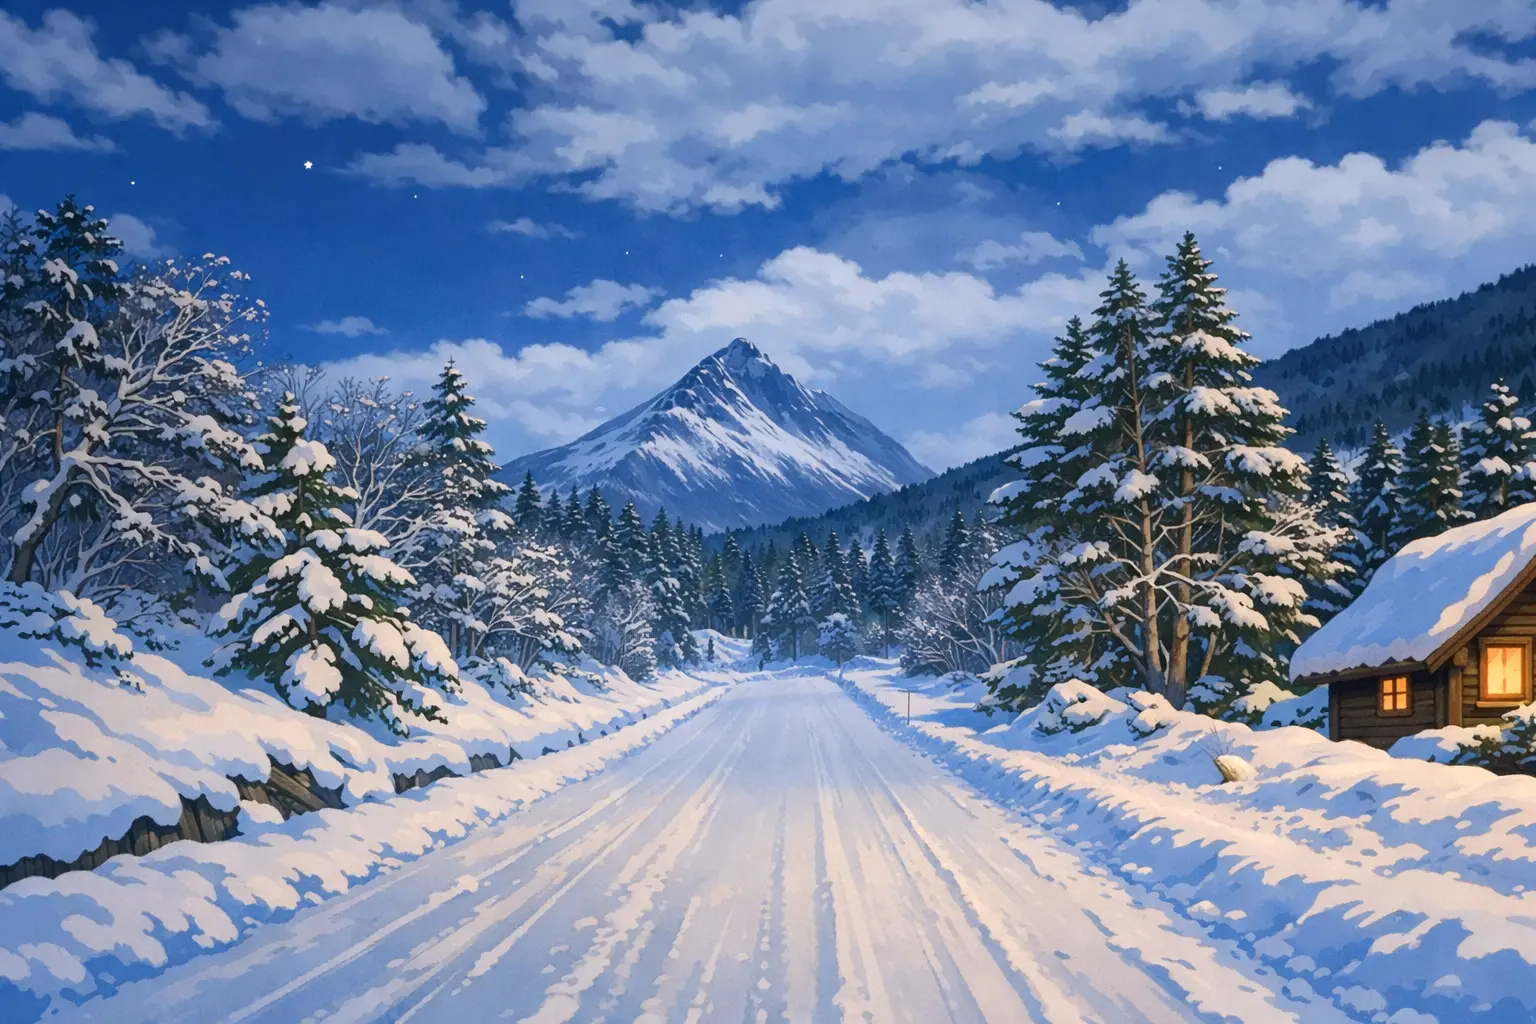
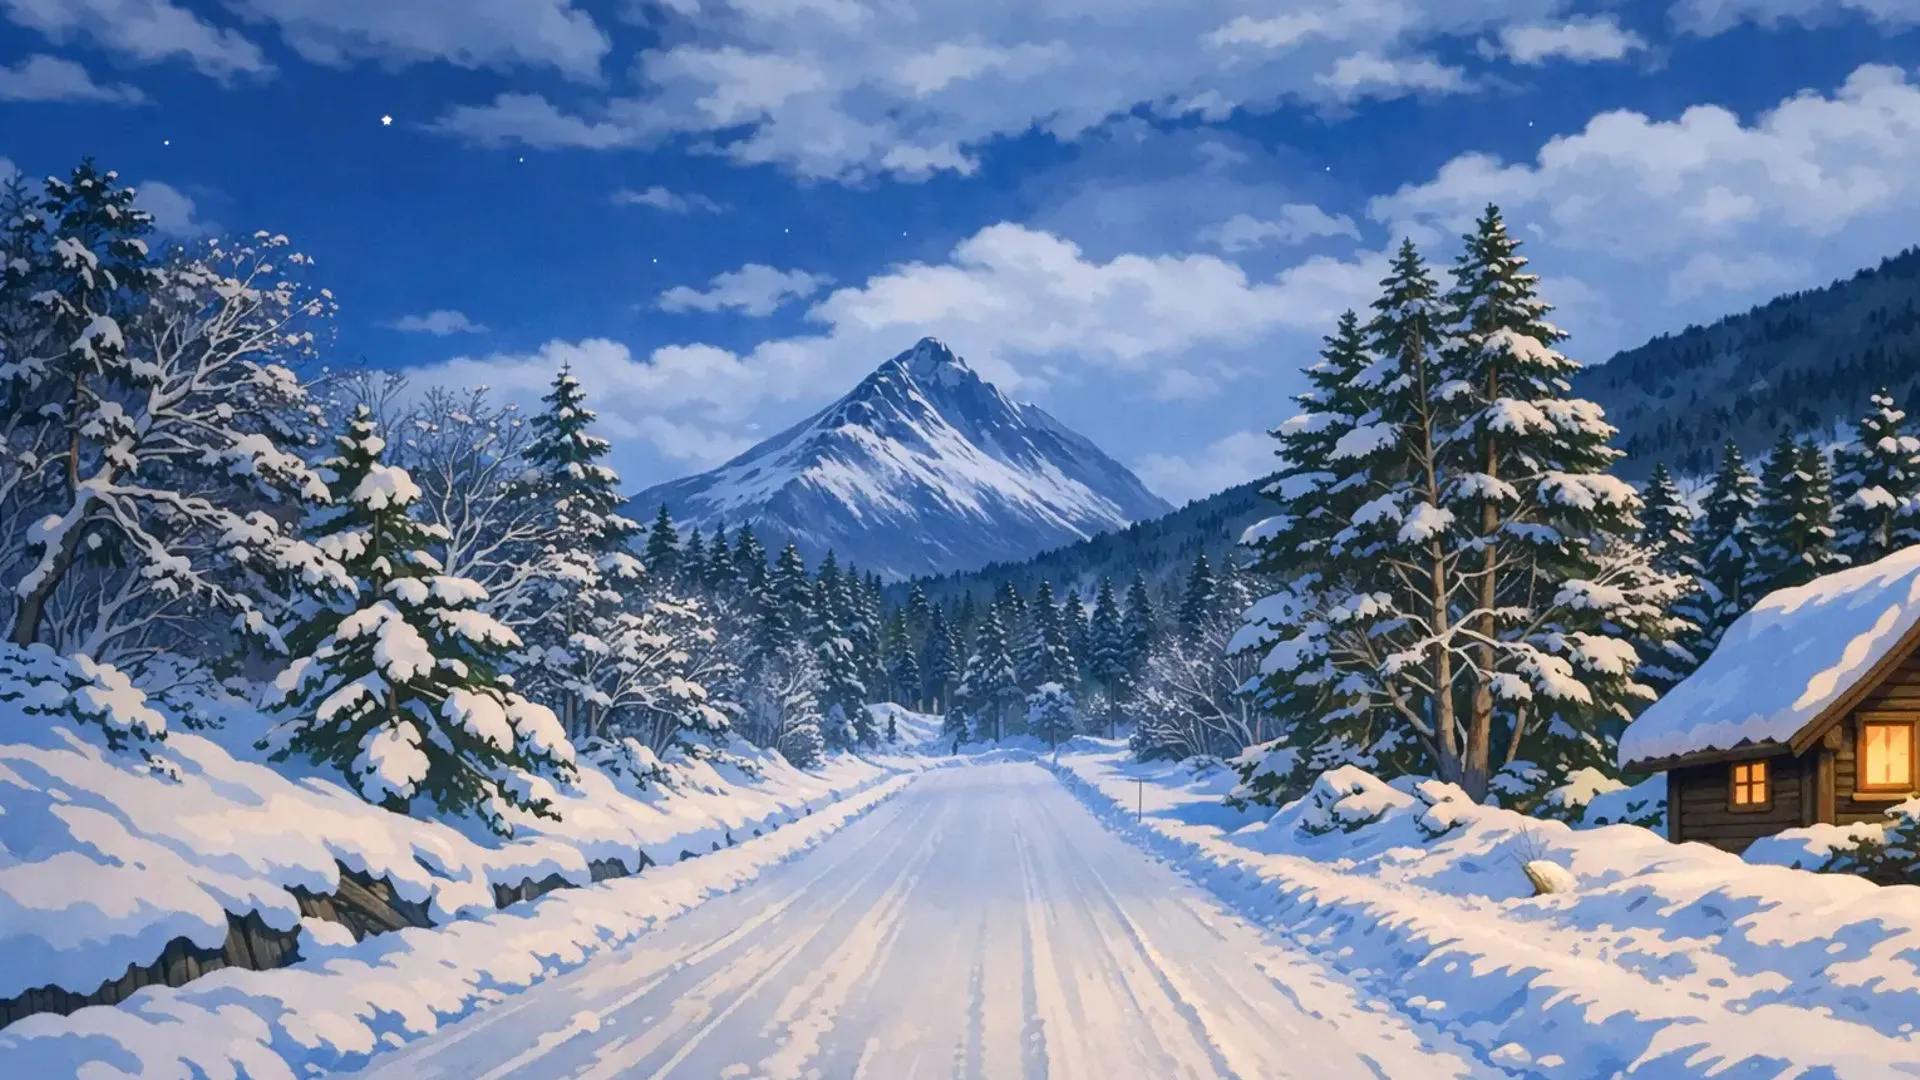
Changed sleep screen image size & turned down opacity

diff --git a/src/components/Taskbar/StartMenu/sleepscreen.jsx b/src/components/Taskbar/StartMenu/sleepscreen.jsx
@@ -69,7 +69,7 @@ export default function SleepScreen() {
 
       <div className="
       absolute inset-0 
-      bg-black/85
+      bg-black/90
       backdrop-blur-[0.5px]
       " 
       />
